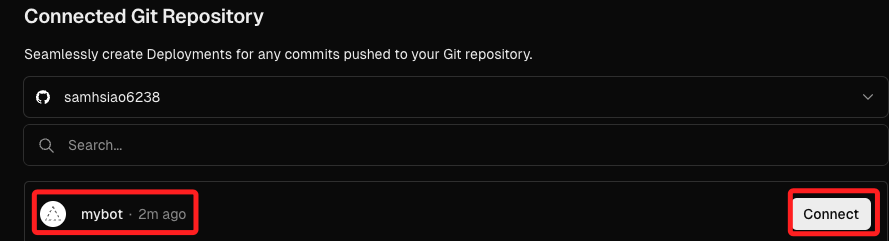
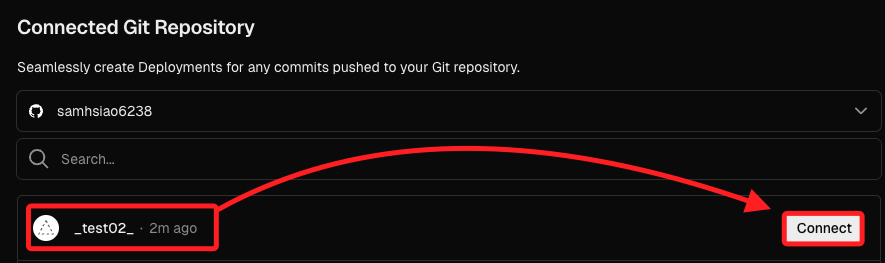
Commit on 2024-12-26 21:09:23

diff --git a/D16_LineBot/02_LineBot+Vercel/3_設定 Vercel.md b/D16_LineBot/02_LineBot+Vercel/3_設定 Vercel.md
@@ -383,59 +383,91 @@ _進入 VSCode 進行操作_
 
 </br>
 
-2. 選公開。
+2. 選擇 `Public`。
 
-   ![](images/img_87.png)
+    ![](images/img_87.png)
 
 </br>
 
-3. 完成部署在 Github 上查看。
+3. 完成部署後，可在 `Github` 上查看該專案。
 
     ![](images/img_161.png)
 
 <br>
 
-## G. 再回到 Vercel 中
+## 再回到 Vercel 中
 
-1. 點擊連結到專案。
+_同樣在主控台中進入專案_
 
-   ![](images/img_88.png)
+<br>
+
+1. 專案右下角會出現 `Connect Git repository`，點擊進行連結。
+
+    ![](images/img_88.png)
 
 </br>
 
 2. 選取 GitHub。
 
-   ![](images/img_89.png)
+    ![](images/img_89.png)
 
 </br>
 
-3. 連結對應的專案，在這裡是 `mybot`。
+3. 連結對應的專案，在這裡是 `_test02_`。
 
     ![](images/img_90.png)
 
 </br>
 
-4. 回到產品部署 `Production Deployment` 的畫面，可以點擊 `Source code` 查看內容以確認是否為更新的內容。
+4. 切換到 `Project` 頁籤。
 
-   ![](images/img_91.png)
+    ![](images/img_18.png)
 
-</br>
+<br>
 
-## H. 驗證結果
+5. 可點擊 `Source code` 查看內容，確認是否為更新的內容。
 
-1. Vercel 的部署有時會有延遲狀況，可以透過去修改一下 `index.py` 來同步並觀察一下部署狀況。
-
-   ![](images/img_92.png)
+    ![](images/img_91.png)
 
 </br>
 
-2. 直到畫面正常顯示就表示部署完成。
+## 驗證結果
+
+1. 編輯 `index.py`，添加一個路由 `home`；再次點擊部署到 Github。
+
+    ```python
+    @app.route("/")
+    def home():
+        return "<h1>歡迎來到 Vercel 測試首頁。</h1><p>這是一個基本的應用。</p>"
+    ```
+
+<br>
+
+2. 輸入說明後提交。
+
+    ![](images/img_19.png)
+
+<br>
+
+3. 若完成同步，主控台會顯示該說明。
+
+    ![](images/img_20.png)
+
+<br>
+
+4. Vercel 的部署有時會有延遲狀況，可以透過去修改一下 `index.py` 來同步並觀察一下部署狀況。
+
+    ![](images/img_92.png)
+
+</br>
+
+5. 直到畫面正常顯示就表示部署完成。
 
    ![](images/img_93.png)
 
 </br>
 
-3. 也可以透過驗證 Webhook 確認是否完成部署。
+6. 也可以透過驗證 Webhook 確認是否完成部署。
 
    ![](images/img_94.png)
 
